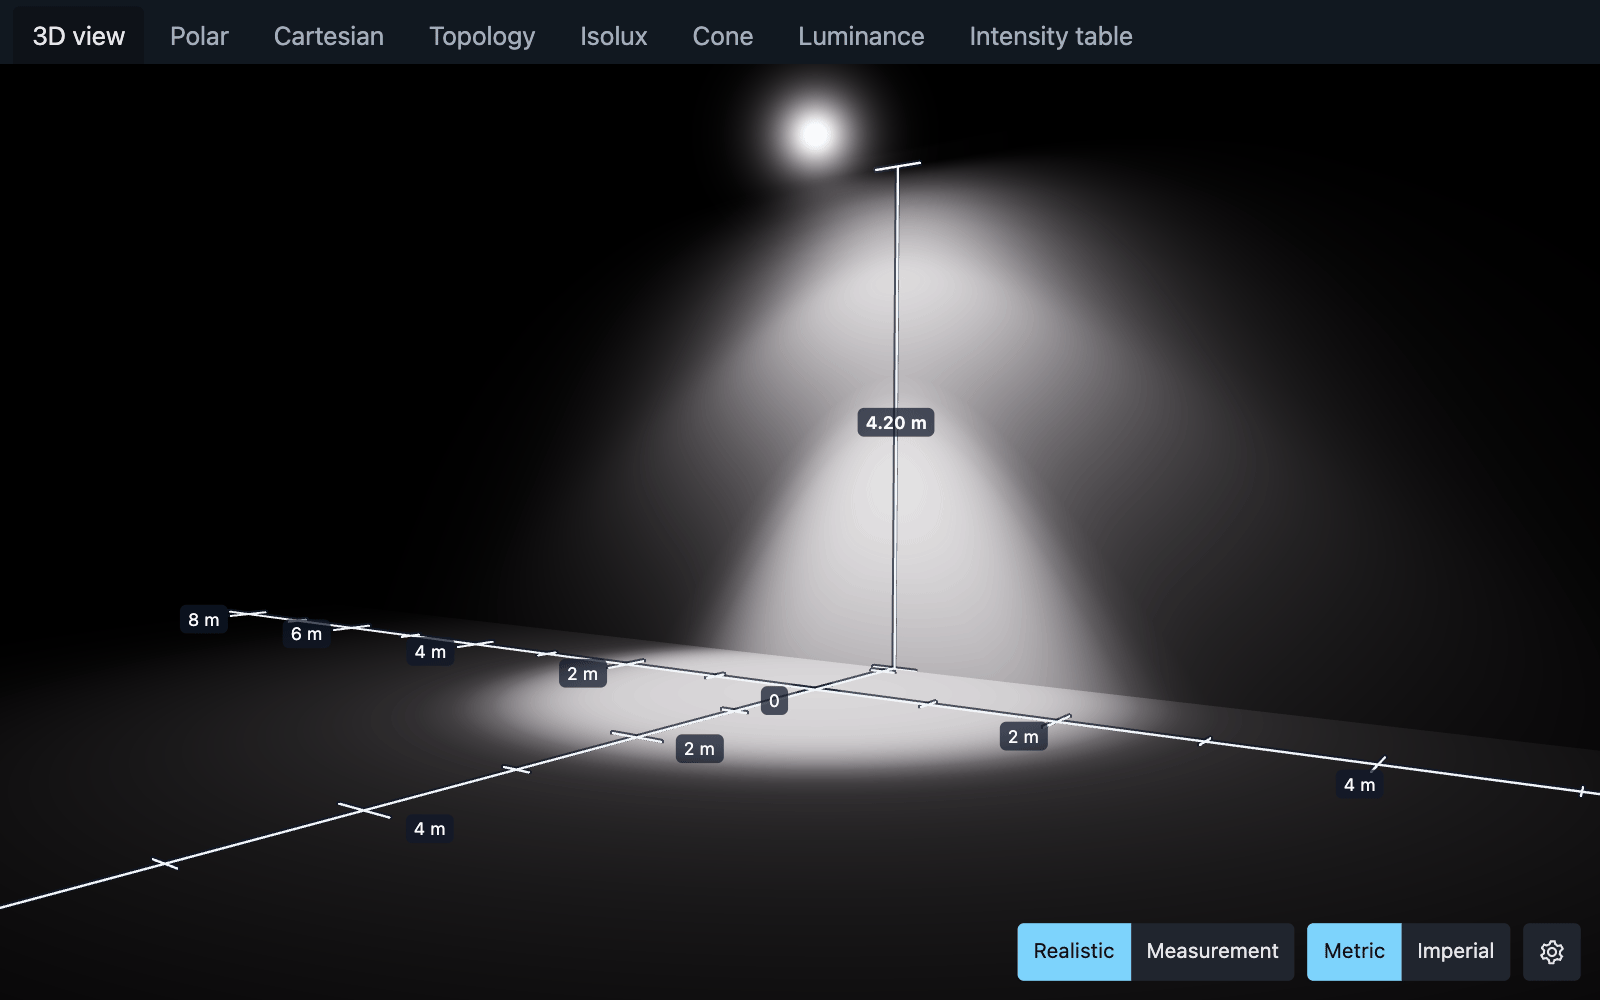
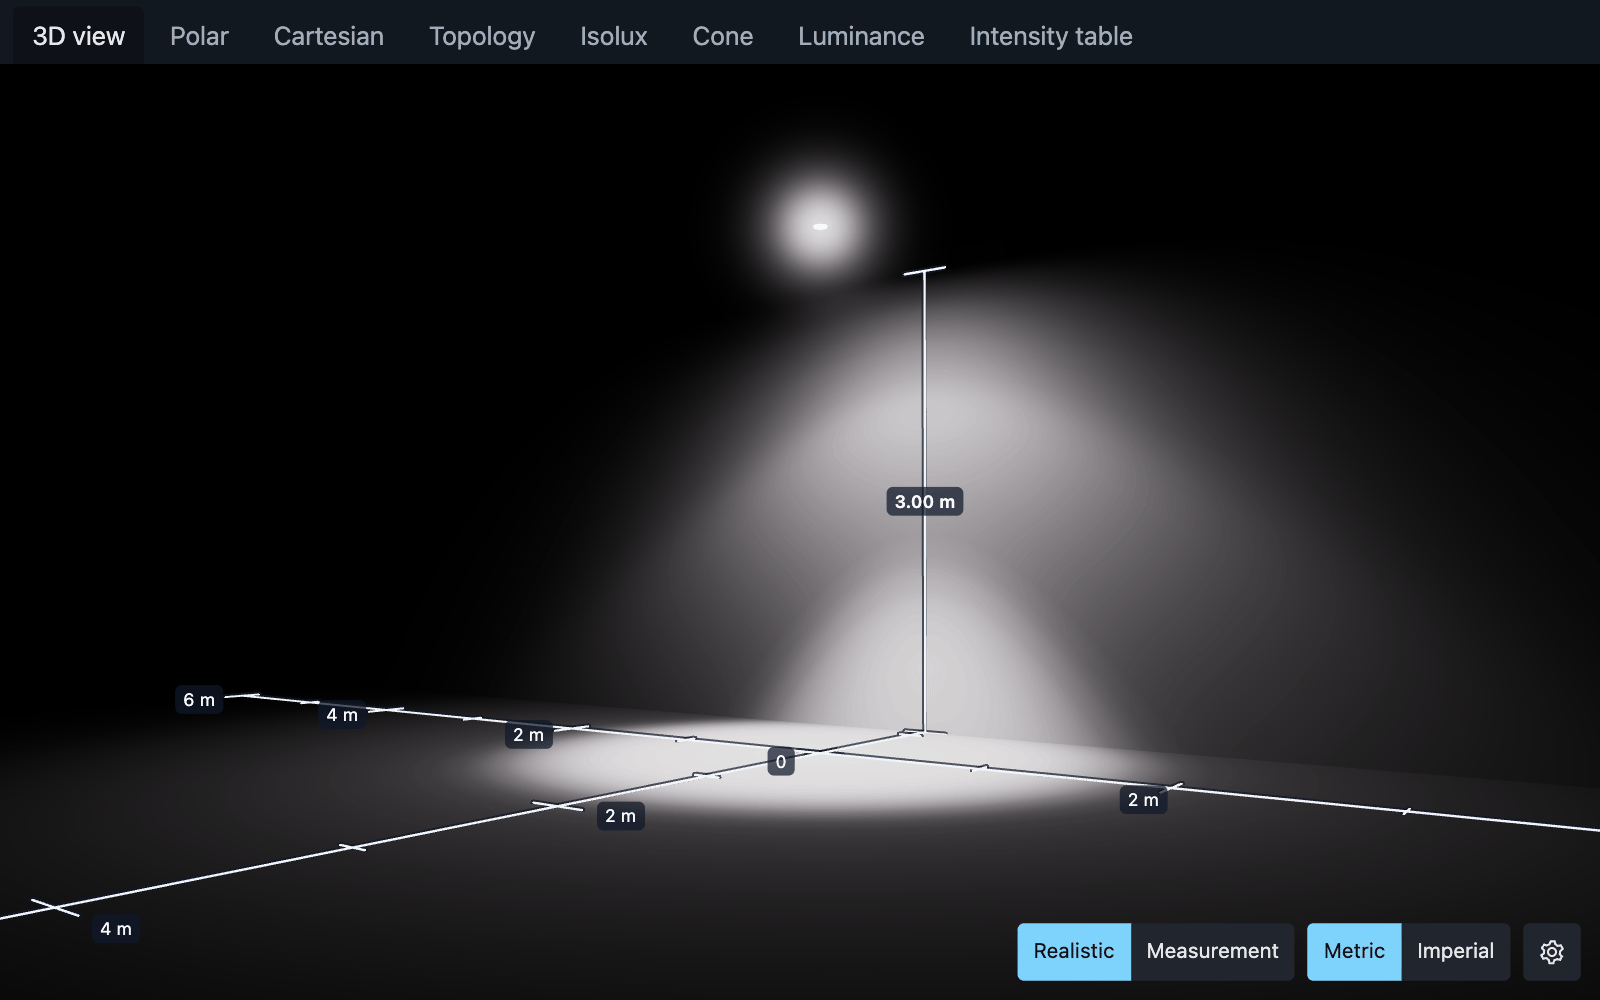
docs: recapture light-viewer hero and VS Code extension GIF
Recapture both images on an Apple M3 (Metal) after the simplified light
drag (#142) and the softer glare, plain-decimal legend and slower orbit
(#143). The hero now frames the glowing fixture from low and close; the
GIF shows selection with the new hint, raising the light with ArrowUp and
a plain upward drag, then Measurement, Imperial and every chart tab.
Alt text describes the new content.

Refs #145

Changed region(s): [[0.0, 0.062, 0.9062, 0.93], [0.875, 0.775, 1.0, 0.837]]

diff --git a/packages/docs/src/pages/index.jsx b/packages/docs/src/pages/index.jsx
@@ -116,7 +116,7 @@ export default function Home() {
           <figure className={styles.shot}>
             <img
               src={useBaseUrl('/img/vscode-extension.gif')}
-              alt="The light viewer raising a selected downlight until its glare halo appears, orbiting below it across the lit floor and wall, switching to Measurement mode with isolux contours and a legend, toggling Imperial units, then stepping through the polar, Cartesian, topology, isolux, cone, luminance and intensity table tabs"
+              alt="The light viewer selecting a downlight, raising it with the arrow keys and an upward drag that changes only its height, orbiting lower and zooming in until its glare halo shows above the lit floor and wall, switching to Measurement mode with isolux contours and a legend, toggling Imperial units, then stepping through the polar, Cartesian, topology, isolux, cone, luminance and intensity table tabs"
               width="840"
               height="525"
               loading="lazy"

diff --git a/packages/viewer/README.md b/packages/viewer/README.md
@@ -10,7 +10,7 @@ Shared Three.js viewer, React components, and `<light-viewer>` for IES and EULUM
 
 The preview uses one uniform color temperature from IES metadata or the selected native LDT lamp configuration, falling back to **6500 K** when missing, invalid, or ambiguous. A linear RGB tint preserves photometric luminance; candela, lux, and charts are unchanged. This approximates warm/cool white appearance without spectral or CRI simulation. See [light color](https://ies-tools.ben3d.ca/docs/light-viewer#light-color) for recognized fields and limits.
 
-![The light viewer in Realistic mode: an auto-exposed downlight mounted 4.2 m high with a glowing glare halo, washing the wall and pooling light on the floor, with floor and mounting-height rulers, chart tabs, and Realistic/Measurement and Metric/Imperial toggles](https://raw.githubusercontent.com/bhouston/ies-tools/main/packages/docs/static/img/light-viewer.png)
+![The light viewer in Realistic mode, seen from low beside the light: an auto-exposed downlight mounted 3 m high glows with a soft glare halo above a cone of light that pools on the floor and washes the wall, with floor and mounting-height rulers, chart tabs, and Realistic/Measurement and Metric/Imperial toggles](https://raw.githubusercontent.com/bhouston/ies-tools/main/packages/docs/static/img/light-viewer.png)
 
 ```sh
 npm install @ies-tools/viewer @ies-tools/core three

diff --git a/packages/vscode-extension/README.md b/packages/vscode-extension/README.md
@@ -9,7 +9,7 @@ Install from the [Visual Studio Marketplace](https://marketplace.visualstudio.co
 
 See how a luminaire distributes light without leaving VS Code. Open an IES or EULUMDAT file to preview its measured light on a floor and back wall, inspect its photometric properties, and check for data issues.
 
-![The light viewer raising a selected downlight until its glare halo appears, orbiting below it across the lit floor and wall, switching to Measurement mode with isolux contours and a legend, toggling Imperial units, then stepping through the polar, Cartesian, topology, isolux, cone, luminance and intensity table tabs](https://raw.githubusercontent.com/bhouston/ies-tools/main/packages/docs/static/img/vscode-extension.gif)
+![The light viewer selecting a downlight, raising it with the arrow keys and an upward drag that changes only its height, orbiting lower and zooming in until its glare halo shows above the lit floor and wall, switching to Measurement mode with isolux contours and a legend, toggling Imperial units, then stepping through the polar, Cartesian, topology, isolux, cone, luminance and intensity table tabs](https://raw.githubusercontent.com/bhouston/ies-tools/main/packages/docs/static/img/vscode-extension.gif)
 
 ## Install
 

diff --git a/README.md b/README.md
@@ -7,7 +7,7 @@ Parse, validate, convert and preview IES LM-63 and EULUMDAT lighting files in Ja
 
 [**Live demo and documentation**](https://ies-tools.ben3d.ca/) · [**Quick start**](https://ies-tools.ben3d.ca/docs/quick-start) · [**Report an issue**](https://github.com/bhouston/ies-tools/issues)
 
-![The light viewer in Realistic mode: an auto-exposed downlight mounted 4.2 m high with a glowing glare halo, washing the wall and pooling light on the floor, with floor and mounting-height rulers, chart tabs, and Realistic/Measurement and Metric/Imperial toggles](https://raw.githubusercontent.com/bhouston/ies-tools/main/packages/docs/static/img/light-viewer.png)
+![The light viewer in Realistic mode, seen from low beside the light: an auto-exposed downlight mounted 3 m high glows with a soft glare halo above a cone of light that pools on the floor and washes the wall, with floor and mounting-height rulers, chart tabs, and Realistic/Measurement and Metric/Imperial toggles](https://raw.githubusercontent.com/bhouston/ies-tools/main/packages/docs/static/img/light-viewer.png)
 
 ## Choose your tool
 

diff --git a/packages/docs/docs/vscode.md b/packages/docs/docs/vscode.md
@@ -9,7 +9,7 @@ sidebar_label: VS Code extension
 
 The **IES and LDT Light Viewer** extension previews IES and EULUMDAT files in VS Code. It shows the light on a floor and wall, draws photometric charts, lists the file's properties and validation results, and converts between formats.
 
-![The light viewer raising a selected downlight until its glare halo appears, orbiting below it across the lit floor and wall, switching to Measurement mode with isolux contours and a legend, toggling Imperial units, then stepping through the polar, Cartesian, topology, isolux, cone, luminance and intensity table tabs](/img/vscode-extension.gif)
+![The light viewer selecting a downlight, raising it with the arrow keys and an upward drag that changes only its height, orbiting lower and zooming in until its glare halo shows above the lit floor and wall, switching to Measurement mode with isolux contours and a legend, toggling Imperial units, then stepping through the polar, Cartesian, topology, isolux, cone, luminance and intensity table tabs](/img/vscode-extension.gif)
 
 ## Install
 

diff --git a/packages/docs/docs/react.md b/packages/docs/docs/react.md
@@ -5,7 +5,7 @@ sidebar_label: React
 
 # React components
 
-![The light viewer in Realistic mode: an auto-exposed downlight mounted 4.2 m high with a glowing glare halo, washing the wall and pooling light on the floor, with floor and mounting-height rulers, chart tabs, and Realistic/Measurement and Metric/Imperial toggles](/img/light-viewer.png)
+![The light viewer in Realistic mode, seen from low beside the light: an auto-exposed downlight mounted 3 m high glows with a soft glare halo above a cone of light that pools on the floor and washes the wall, with floor and mounting-height rulers, chart tabs, and Realistic/Measurement and Metric/Imperial toggles](/img/light-viewer.png)
 
 `@ies-tools/viewer/react` provides the 3D light viewer, every photometric chart, and the file information panel as React components.
 
